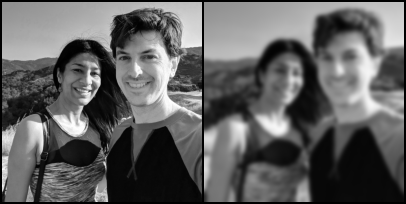
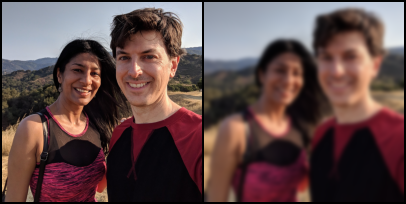
Fixups.

diff --git a/docs/index.html b/docs/index.html
@@ -311,7 +311,7 @@ Mitchell filter.
    </a>
   </h3>
   <p>
-   Extends the size of an image by adding borders.
+   Extend the size of an image by adding borders.
    <p>
     The
     <code>
@@ -377,7 +377,7 @@ Mitchell filter.
    </a>
   </h3>
   <p>
-   Horizontally concatenates a list of images with a border.  This is similar to numpy's
+   Horizontally concatenate a list of images with a border.  This is similar to numpy's
    <code>
     hstack
    </code>
@@ -445,7 +445,7 @@ Mitchell filter.
    </a>
   </h3>
   <p>
-   Vertically concatenates a list of images with a border.  This is similar to numpy's
+   Vertically concatenate a list of images with a border.  This is similar to numpy's
    <code>
     vstack
    </code>

diff --git a/docs/generate.py b/docs/generate.py
@@ -1,3 +1,5 @@
+#!/usr/bin/env python3 -m pytest -s
+
 import os
 import sys
 sys.path.append('../snowy')
@@ -173,17 +175,18 @@ for tag in 'h2 h3 h4'.split():
         heading.contents[0].replace_with(anchor)
 open(qualify('index.html'), 'w').write(soup.prettify())
 
-quit()
-
 n = snowy.generate_noise(100, 100, frequency=4, seed=42, wrapx=True)
 n = np.hstack([n, n])
 n = 0.5 + 0.5 * n
 snowy.show(n)
 snowy.save(n, qualify('noise.png'))
 
+# First try minifying grayscale
+
 gibbons = snowy.load(qualify('gibbons.jpg'))
 gibbons = np.swapaxes(gibbons, 0, 2)
 gibbons = np.swapaxes(gibbons[0], 0, 1)
+gibbons = snowy.reshape(gibbons)
 
 source = snowy.resize(gibbons, 200, 200)
 blurry = snowy.blur(source, radius=4.0)
@@ -191,6 +194,19 @@ diptych_filename = qualify('diptych.png')
 snowy.save(snowy.hstack([source, blurry]), diptych_filename)
 os.system('optipng ' + diptych_filename)
 snowy.show(diptych_filename)
+
+# Next try color
+
+gibbons = snowy.load(qualify('gibbons.jpg'))
+
+source = snowy.resize(gibbons, 200, 200)
+blurry = snowy.blur(source, radius=4.0)
+diptych_filename = qualify('diptych.png')
+snowy.save(snowy.hstack([source, blurry]), diptych_filename)
+os.system('optipng ' + diptych_filename)
+snowy.show(diptych_filename)
+
+# Moving on to magnification...
 
 parrot = snowy.load(qualify('parrot.png'))
 scale = 6
@@ -269,6 +285,9 @@ def create_island(seed, freq=3):
     mask = np.where(elevation < 0, 1, 0)
     el = 128 + 127 * elevation / np.amax(elevation)
     return applyColorGradient(el, STEPPED_PALETTE)
+
+# flake = snowy.load(qualify('snowflake64.png'))
+# snowy.show(flake)
 
 isles = []
 for i in range(6):

diff --git a/snowy/io.py b/snowy/io.py
@@ -30,7 +30,8 @@ def load(filename: str):
     """Create a numpy array from the given image file."""
     if filename.endswith('.exr'):
         imageio.plugins.freeimage.download()
-    return np.float64(imageio.imread(filename))
+    imgarray = imageio.imread(filename)
+    return np.float64(imgarray)
 
 def save(image: np.ndarray, filename: str, image_format: str=None):
     """Save a numpy array as an image file at the given path."""

diff --git a/snowy/filtering.py b/snowy/filtering.py
@@ -164,8 +164,6 @@ def convolve(target, source, rowops: RowOps):
     tindices, sindices, fweights = rowops
     assert len(tindices) == len(sindices) == len(fweights)
     assert len(target) == len(source)
-    target = io.unshape(target)
-    source = io.unshape(source)
     jit_convolve(target, source,
                  np.int32(tindices), np.int32(sindices),
                  np.double(fweights))

diff --git a/README.md b/README.md
@@ -1,7 +1,5 @@
 <!--
 
-rename to snowy
-
 add README examples of:
   adding alpha to cut out a circle
   combining R G B planes
@@ -45,7 +43,7 @@ post-blog entry
 # Snowy
 
 This is a tiny Python 3 module for manipulating and generating images.
-- Simple and flat API. See the [documentation]().
+- Simple and flat API. See the [documentation](http://github.prideout.net/snowy/).
 - Supports [resize and blur](#resize-and-blur) with a variety of filters.
 - Honors the [wrap mode]() for proper boundary behavior.
 - Supports simple OpenEXR images (never clamps colors).
